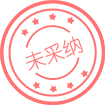
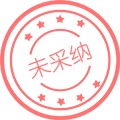
添加三倍图

diff --git a/page/enquiry/enquiry-detail.html b/page/enquiry/enquiry-detail.html
@@ -9,21 +9,15 @@
 		<meta name="format-detection" content="telephone=no, email=no">
 		<!--iphone-->
 		<title>询价信息</title>
-		<script>
-		var deviceWidth = document.documentElement.clientWidth;
-		var dpr = window.devicePixelRatio;
-		document.documentElement.setAttribute('data-dpr', dpr);
-		if(deviceWidth > 750) deviceWidth = 750;
-		document.documentElement.style.fontSize = deviceWidth / 7.5 + 'px';
-		</script>
+		<script src="../../js/fit.js"></script>
     	<link rel="stylesheet" href="https://res.wx.qq.com/open/libs/weui/1.1.2/weui.min.css">
 		<link rel="stylesheet" href="../../css/icon.css">
 		<link rel="stylesheet" href="../../css/common.css">
 		<link rel="stylesheet" href="../../css/enquiry.css">
         <style>
-				.main {
-		  		padding-bottom: 1.4rem;
-	  		}
+		.main {
+		  	padding-bottom: 1.4rem;
+	  	}
         .page-content{
             padding: 0 0.3rem;
         }

diff --git a/js/fit.js b/js/fit.js
@@ -1,0 +1,23 @@
+var deviceWidth = document.documentElement.clientWidth;
+var dpr = window.devicePixelRatio;
+if (dpr) {
+    var isAndroid = window.navigator.appVersion.match(/android/gi);
+    var isIPhone = window.navigator.appVersion.match(/iphone/gi);
+    var devicePixelRatio = window.devicePixelRatio;
+    if (isIPhone) {
+        // iOS下，对于2和3的屏，用2倍的方案，其余的用1倍方案
+        if (devicePixelRatio >= 3 && (!dpr || dpr >= 3)) {
+            dpr = 3;
+        } else if (devicePixelRatio >= 2 && (!dpr || dpr >= 2)){
+            dpr = 2;
+        } else {
+            dpr = 1;
+        }
+    } else {
+        // 其他设备下，仍旧使用1倍的方案
+        dpr = 1;
+    }
+}
+document.documentElement.setAttribute('data-dpr', dpr);
+if(deviceWidth > 750) deviceWidth = 750;
+document.documentElement.style.fontSize = deviceWidth / 7.5 + 'px';

diff --git a/page/apply/apply-service.html b/page/apply/apply-service.html
@@ -9,14 +9,8 @@
 		<meta name="format-detection" content="telephone=no, email=no">
 		<!--iphone-->
 		<title>服务申请</title>
-		<script>
-		var deviceWidth = document.documentElement.clientWidth;
-		var dpr = window.devicePixelRatio;
-		document.documentElement.setAttribute('data-dpr', dpr);
-		if(deviceWidth > 750) deviceWidth = 750;
-		document.documentElement.style.fontSize = deviceWidth / 7.5 + 'px';
-		</script>
-    <link rel="stylesheet" href="https://res.wx.qq.com/open/libs/weui/1.1.2/weui.min.css">
+		<script src="../../js/fit.js"></script>
+    	<link rel="stylesheet" href="https://res.wx.qq.com/open/libs/weui/1.1.2/weui.min.css">
 		<link rel="stylesheet" href="../../css/icon.css">
 		<link rel="stylesheet" href="../../css/common.css">
         <style>

diff --git a/page/apply/apply-service-protocol-together.html b/page/apply/apply-service-protocol-together.html
@@ -9,13 +9,7 @@
 		<meta name="format-detection" content="telephone=no, email=no">
 		<!--iphone-->
 		<title>服务申请协议</title>
-		<script>
-		var deviceWidth = document.documentElement.clientWidth;
-		var dpr = window.devicePixelRatio;
-		document.documentElement.setAttribute('data-dpr', dpr);
-		if(deviceWidth > 750) deviceWidth = 750;
-		document.documentElement.style.fontSize = deviceWidth / 7.5 + 'px';
-		</script>
+		<script src="../../js/fit.js"></script>
 		<link rel="stylesheet" href="https://res.wx.qq.com/open/libs/weui/1.1.2/weui.min.css">
 		<link rel="stylesheet" type="text/css" href="../../css/icon.css ">
 		<link rel="stylesheet" type="text/css" href="../../css/common.css ">

diff --git a/page/apply/apply-service-protocol.html b/page/apply/apply-service-protocol.html
@@ -9,13 +9,7 @@
 		<meta name="format-detection" content="telephone=no, email=no">
 		<!--iphone-->
 		<title>服务申请协议</title>
-		<script>
-		var deviceWidth = document.documentElement.clientWidth;
-		var dpr = window.devicePixelRatio;
-		document.documentElement.setAttribute('data-dpr', dpr);
-		if(deviceWidth > 750) deviceWidth = 750;
-		document.documentElement.style.fontSize = deviceWidth / 7.5 + 'px';
-		</script>
+		<script src="../../js/fit.js"></script>
 		<link rel="stylesheet" href="https://res.wx.qq.com/open/libs/weui/1.1.2/weui.min.css">
 		<link rel="stylesheet" type="text/css" href="../../css/icon.css ">
 		<link rel="stylesheet" type="text/css" href="../../css/common.css ">

diff --git a/page/login/reset-password-email.html b/page/login/reset-password-email.html
@@ -9,13 +9,7 @@
 		<meta name="format-detection" content="telephone=no, email=no">
 		<!--iphone-->
 		<title>重置密码</title>
-		<script>
-		var deviceWidth = document.documentElement.clientWidth;
-		var dpr = window.devicePixelRatio;
-		document.documentElement.setAttribute('data-dpr', dpr);
-		if(deviceWidth > 750) deviceWidth = 750;
-		document.documentElement.style.fontSize = deviceWidth / 7.5 + 'px';
-		</script>
+		<script src="../../js/fit.js"></script>
 		<link rel="stylesheet" href="https://res.wx.qq.com/open/libs/weui/1.1.2/weui.min.css">
 		<link rel="stylesheet" type="text/css" href="../../css/icon.css ">
 		<link rel="stylesheet" type="text/css" href="../../css/common.css ">

diff --git a/page/login/reset-password-tel.html b/page/login/reset-password-tel.html
@@ -9,13 +9,7 @@
 		<meta name="format-detection" content="telephone=no, email=no">
 		<!--iphone-->
 		<title>重置密码</title>
-		<script>
-		var deviceWidth = document.documentElement.clientWidth;
-		var dpr = window.devicePixelRatio;
-		document.documentElement.setAttribute('data-dpr', dpr);
-		if(deviceWidth > 750) deviceWidth = 750;
-		document.documentElement.style.fontSize = deviceWidth / 7.5 + 'px';
-		</script>
+		<script src="../../js/fit.js"></script>
 		<link rel="stylesheet" href="https://res.wx.qq.com/open/libs/weui/1.1.2/weui.min.css">
 		<link rel="stylesheet" type="text/css" href="../../css/icon.css ">
 		<link rel="stylesheet" type="text/css" href="../../css/common.css ">

diff --git a/page/login/reset-password.html b/page/login/reset-password.html
@@ -9,13 +9,7 @@
 		<meta name="format-detection" content="telephone=no, email=no">
 		<!--iphone-->
 		<title>重置密码</title>
-		<script>
-		var deviceWidth = document.documentElement.clientWidth;
-		var dpr = window.devicePixelRatio;
-		document.documentElement.setAttribute('data-dpr', dpr);
-		if(deviceWidth > 750) deviceWidth = 750;
-		document.documentElement.style.fontSize = deviceWidth / 7.5 + 'px';
-		</script>
+		<script src="../../js/fit.js"></script>
 		<link rel="stylesheet" href="https://res.wx.qq.com/open/libs/weui/1.1.2/weui.min.css">
 		<link rel="stylesheet" type="text/css" href="../../css/icon.css ">
 		<link rel="stylesheet" type="text/css" href="../../css/common.css ">

diff --git a/page/register/register-protocol.html b/page/register/register-protocol.html
@@ -9,13 +9,7 @@
 		<meta name="format-detection" content="telephone=no, email=no">
 		<!--iphone-->
 		<title>注册协议</title>
-		<script>
-		var deviceWidth = document.documentElement.clientWidth;
-		var dpr = window.devicePixelRatio;
-		document.documentElement.setAttribute('data-dpr', dpr);
-		if(deviceWidth > 750) deviceWidth = 750;
-		document.documentElement.style.fontSize = deviceWidth / 7.5 + 'px';
-		</script>
+		<script src="../../js/fit.js"></script>
 		<link rel="stylesheet" href="https://res.wx.qq.com/open/libs/weui/1.1.2/weui.min.css">
 		<link rel="stylesheet" type="text/css" href="../../css/icon.css ">
 		<link rel="stylesheet" type="text/css" href="../../css/common.css ">

diff --git a/page/login/login.html b/page/login/login.html
@@ -9,13 +9,7 @@
 		<meta name="format-detection" content="telephone=no, email=no">
 		<!--iphone-->
 		<title>登录</title>
-		<script>
-		var deviceWidth = document.documentElement.clientWidth;
-		var dpr = window.devicePixelRatio;
-		document.documentElement.setAttribute('data-dpr', dpr);
-		if(deviceWidth > 750) deviceWidth = 750;
-		document.documentElement.style.fontSize = deviceWidth / 7.5 + 'px';
-		</script>
+		<script src="../../js/fit.js"></script>
 		<link rel="stylesheet" href="https://res.wx.qq.com/open/libs/weui/1.1.2/weui.min.css">
 		<link rel="stylesheet" type="text/css" href="../../css/icon.css ">
 		<link rel="stylesheet" type="text/css" href="../../css/common.css ">

diff --git a/page/register/register.html b/page/register/register.html
@@ -9,13 +9,7 @@
 		<meta name="format-detection" content="telephone=no, email=no">
 		<!--iphone-->
 		<title>注册</title>
-		<script>
-		var deviceWidth = document.documentElement.clientWidth;
-		var dpr = window.devicePixelRatio;
-		document.documentElement.setAttribute('data-dpr', dpr);
-		if(deviceWidth > 750) deviceWidth = 750;
-		document.documentElement.style.fontSize = deviceWidth / 7.5 + 'px';
-		</script>
+		<script src="../../js/fit.js"></script>
 		<link rel="stylesheet" href="https://res.wx.qq.com/open/libs/weui/1.1.2/weui.min.css">
 		<link rel="stylesheet" type="text/css" href="../../css/icon.css ">
 		<link rel="stylesheet" type="text/css" href="../../css/common.css ">

diff --git a/page/index.html b/page/index.html
@@ -9,13 +9,7 @@
 		<meta name="format-detection" content="telephone=no, email=no">
 		<!--iphone-->
 		<title>入口</title>
-		<script>
-		var deviceWidth = document.documentElement.clientWidth;
-		var dpr = window.devicePixelRatio;
-		document.documentElement.setAttribute('data-dpr', dpr);
-		if(deviceWidth > 750) deviceWidth = 750;
-		document.documentElement.style.fontSize = deviceWidth / 7.5 + 'px';
-		</script>
+		<script src="../js/fit.js"></script>
 		<link rel="stylesheet" href="https://res.wx.qq.com/open/libs/weui/1.1.2/weui.min.css">
 		<link rel="stylesheet" type="text/css" href="../css/icon.css ">
 		<link rel="stylesheet" type="text/css" href="../css/common.css ">
